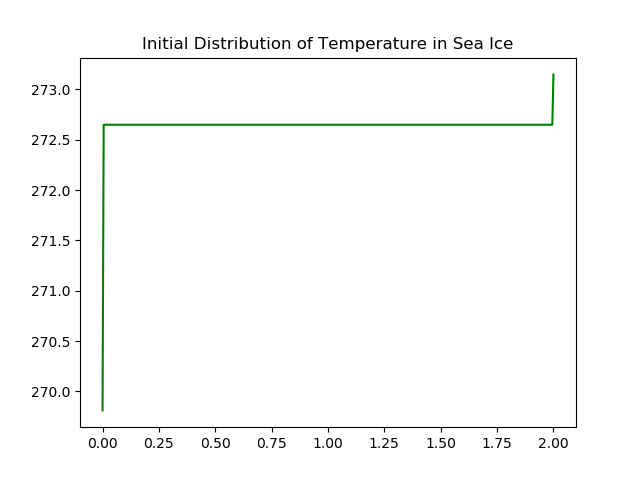
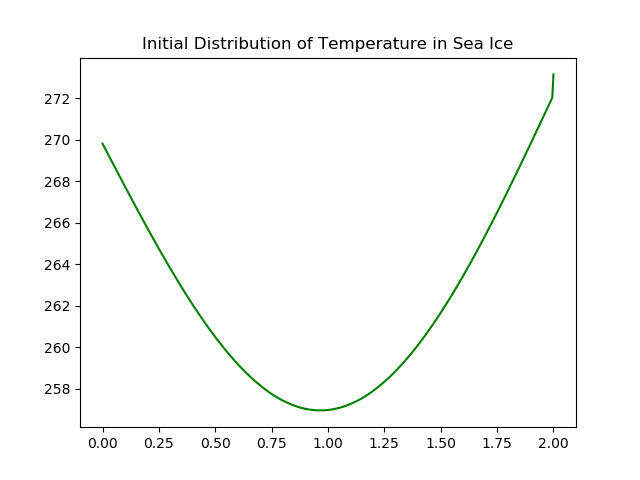
updates

diff --git a/ex-solver/simple_explicit_iceheat.py b/ex-solver/simple_explicit_iceheat.py
@@ -7,7 +7,6 @@
 #import needed libbraries
 import numpy as np
 import matplotlib.pyplot as plt
-import os
 
 import matplotlib as mpl
 mpl.rcParams.update(mpl.rcParamsDefault)
@@ -39,19 +38,26 @@ x = np.linspace(0.0,L,n+1);
 #ND Parameters
 diff_time_scale = (float(L**2))/(alpha_ice) #in seconds
 
-#Create Solution Vector (Tsoln) and initial profile (Tsoln_pr)
-Tsoln = np.zeros(n+1)
-Tsoln_pr = np.full(n+1, 272.65)
+#some inital profile
+def T_init(x):
+    return -14.0*np.sin(np.pi*x/L) + ((air_temp(0.0)*(L-x))+(T_w*x))/L
 
-#Set the initial boundary conditions
-Tsoln_pr[0] = air_temp(0.0)
-Tsoln_pr[-1] = 273.15
+u = T_init(x)
+#set initial BC as well
+u.shape = (len(u),1)
+u[0]=air_temp(0.0)
+u[-1]=273.15
+
+#set initial conditions to the matrix as the first row
+u_soln = u
 
 # Now we have a initial linear distribution of temperature in the sea ice
-plt.plot(x,Tsoln_pr,"g-",label="Initial Profile")
+plt.plot(x,u,"g-",label="Initial Profile")
 plt.title("Initial Distribution of Temperature in Sea Ice")
 plt.savefig("init_profile.png")
 plt.close()
+
+#%% More numerical parameters
 
 # Time parameters
 dt = 0.5; # time between iterations, in seconds
@@ -69,11 +75,6 @@ air_temp_list = []
 
 #%% Start Iteration and prepare plots
 
-folder = "giffiles"
-filelist = [f for f in os.listdir(folder)]
-for f in filelist:
-    os.remove(os.path.join(folder, f))
-
 for i in range(0,nt):
     
     # time in seconds to hours on a 24-hour clock will be used for air temp function
@@ -82,25 +83,32 @@ for i in range(0,nt):
     # Run through the FTCS with these BC
 #    Tsoln[1:n] = Tsoln[1:n]+r*(Tsoln_pr[2:n+1]-2*Tsoln_pr[1:n]+Tsoln_pr[0:n-1])   
     for j in range(1,n):
-        Tsoln[j] = Tsoln_pr[j] + r*(Tsoln_pr[j+1]-2*Tsoln_pr[j]+Tsoln_pr[j-1])
+        u[j] = u[j] + r*(u[j+1]-2*u[j]+u[j-1])
     
-    #Now set the top root as the new BC for Tsoln
-    #comment this out if you want static BC
-    Tsoln[0]=air_temp(i*dt)
-    
-    # Now add the values to their respective lists
-    air_temp_list.append(air_temp(i*dt))
-    top_ice_temp_list.append(Tsoln[0])
+    #force to be column vector
+    u.shape = (len(u),1)
 
-    #update Tsoln before next time step
-    Tsoln_pr = Tsoln
+    #update u top boundary
+    u[0]=i
+    
+    # Now add the surface temp to its list
+    top_ice_temp_list.append(u[0])
+    
+    #append this array to solution file
+    if (i*dt)%120 == 0: #every 60 seconds
+        u_soln = np.append(u_soln, u, axis=1)
+    
+# write the solution matrix to a file
+u_soln = u_soln.transpose()
+np.savetxt(f"ex_output_{n+1}_nodes.txt",u_soln, fmt = '%.10f',delimiter=' ')
+
 
 
 #%% Plotting Main Results
 locs, labels = plt.yticks()
     
 # Plot the figure after nt iterations with initial profile
-plt.plot(x,Tsoln,"k",label=f"After {t_days:.2f} days")
+plt.plot(x,u,"k",label=f"After {t_days:.2f} days")
 title1=f"Distribution of Temperature in Sea Ice after {t_days:.2f} days"
 plt.title(title1)
 plt.xlabel("x (m)")

diff --git a/animator.py b/animator.py
@@ -19,7 +19,7 @@ l, = plt.plot([], [], 'k-o')
 n = 400
 
 solverlist = ["ex", "im", "cn"]
-solver_method = solverlist[1]
+solver_method = solverlist[0]
 loaded_matrix = np.loadtxt(f'{solver_method}-solver/{solver_method}_output_' \
                            + f'{n+1}_nodes.txt', dtype='f', delimiter=' ')
 
@@ -32,7 +32,66 @@ with writer.saving(fig, f"{solver_method}_{len(loaded_matrix[1])}_node_solution.
         plt.title(f"Time Evolution of Heat Equation Solver")
         writer.grab_frame()
         plt.clf()
+
+#explicit case
+loaded_matrix_ex = np.loadtxt(f'ex-solver/ex_output_{n+1}_nodes.txt', dtype='f', delimiter=' ')
+#since this is our first matrix, we must set x values
+x = np.linspace(0.0, 2.0, len(loaded_matrix_ex[0]))
+with writer.saving(fig, f"{solver_method}_{len(loaded_matrix_ex[1])}_node_solution.mp4", 100):    
+    for i in range(len(loaded_matrix_ex)):
+        y1 = loaded_matrix_ex[i]
+        plt.plot(x,y1)
+        plt.title(f"Time Evolution of Heat Equation Solver - EX")
+        writer.grab_frame()
+        plt.clf()
+
+
+loaded_matrix_im = np.loadtxt(f'im-solver/im_output_{n+1}_nodes.txt', dtype='f', delimiter=' ')
+with writer.saving(fig, f"{solver_method}_{len(loaded_matrix_im[1])}_node_solution.mp4", 100):    
+    for i in range(len(loaded_matrix_im)):
+        y2 = loaded_matrix_im[i]
+        plt.plot(x,y2)
+        plt.title(f"Time Evolution of Heat Equation Solver - IM")
+        writer.grab_frame()
+        plt.clf()
+
+
+
+loaded_matrix_cn = np.loadtxt(f'cn-solver/cn_output_{n+1}_nodes.txt', dtype='f', delimiter=' ')
+with writer.saving(fig, f"{solver_method}_{len(loaded_matrix_cn[1])}_node_solution.mp4", 100):    
+    for i in range(len(loaded_matrix_cn)):
+        y3 = loaded_matrix_cn[i]
+        plt.plot(x,y3)
+        plt.title(f"Time Evolution of Heat Equation Solver - CN")
+        writer.grab_frame()
+        plt.clf()
         
+
+#%% For all three methods at once
+with writer.saving(fig, f"all_solutions_at_once.mp4", 100):    
+    for i in range(len(loaded_matrix)):
+        y1 = loaded_matrix_ex[i]
+        y2 = loaded_matrix_im[i]
+        y3 = loaded_matrix_cn[i]
+        plt.plot(x,y1,"r", label = "EX")
+        plt.plot(x,y2,"b", label ="IM")
+        plt.plot(x,y3,"g",label="CN")
+        plt.title(f"Time Evolution of Heat Equation Solver - All Three Methods")
+        writer.grab_frame()
+        plt.clf()
+
+
+
+
+
+
+
+
+
+
+
+
+
 
 
 
